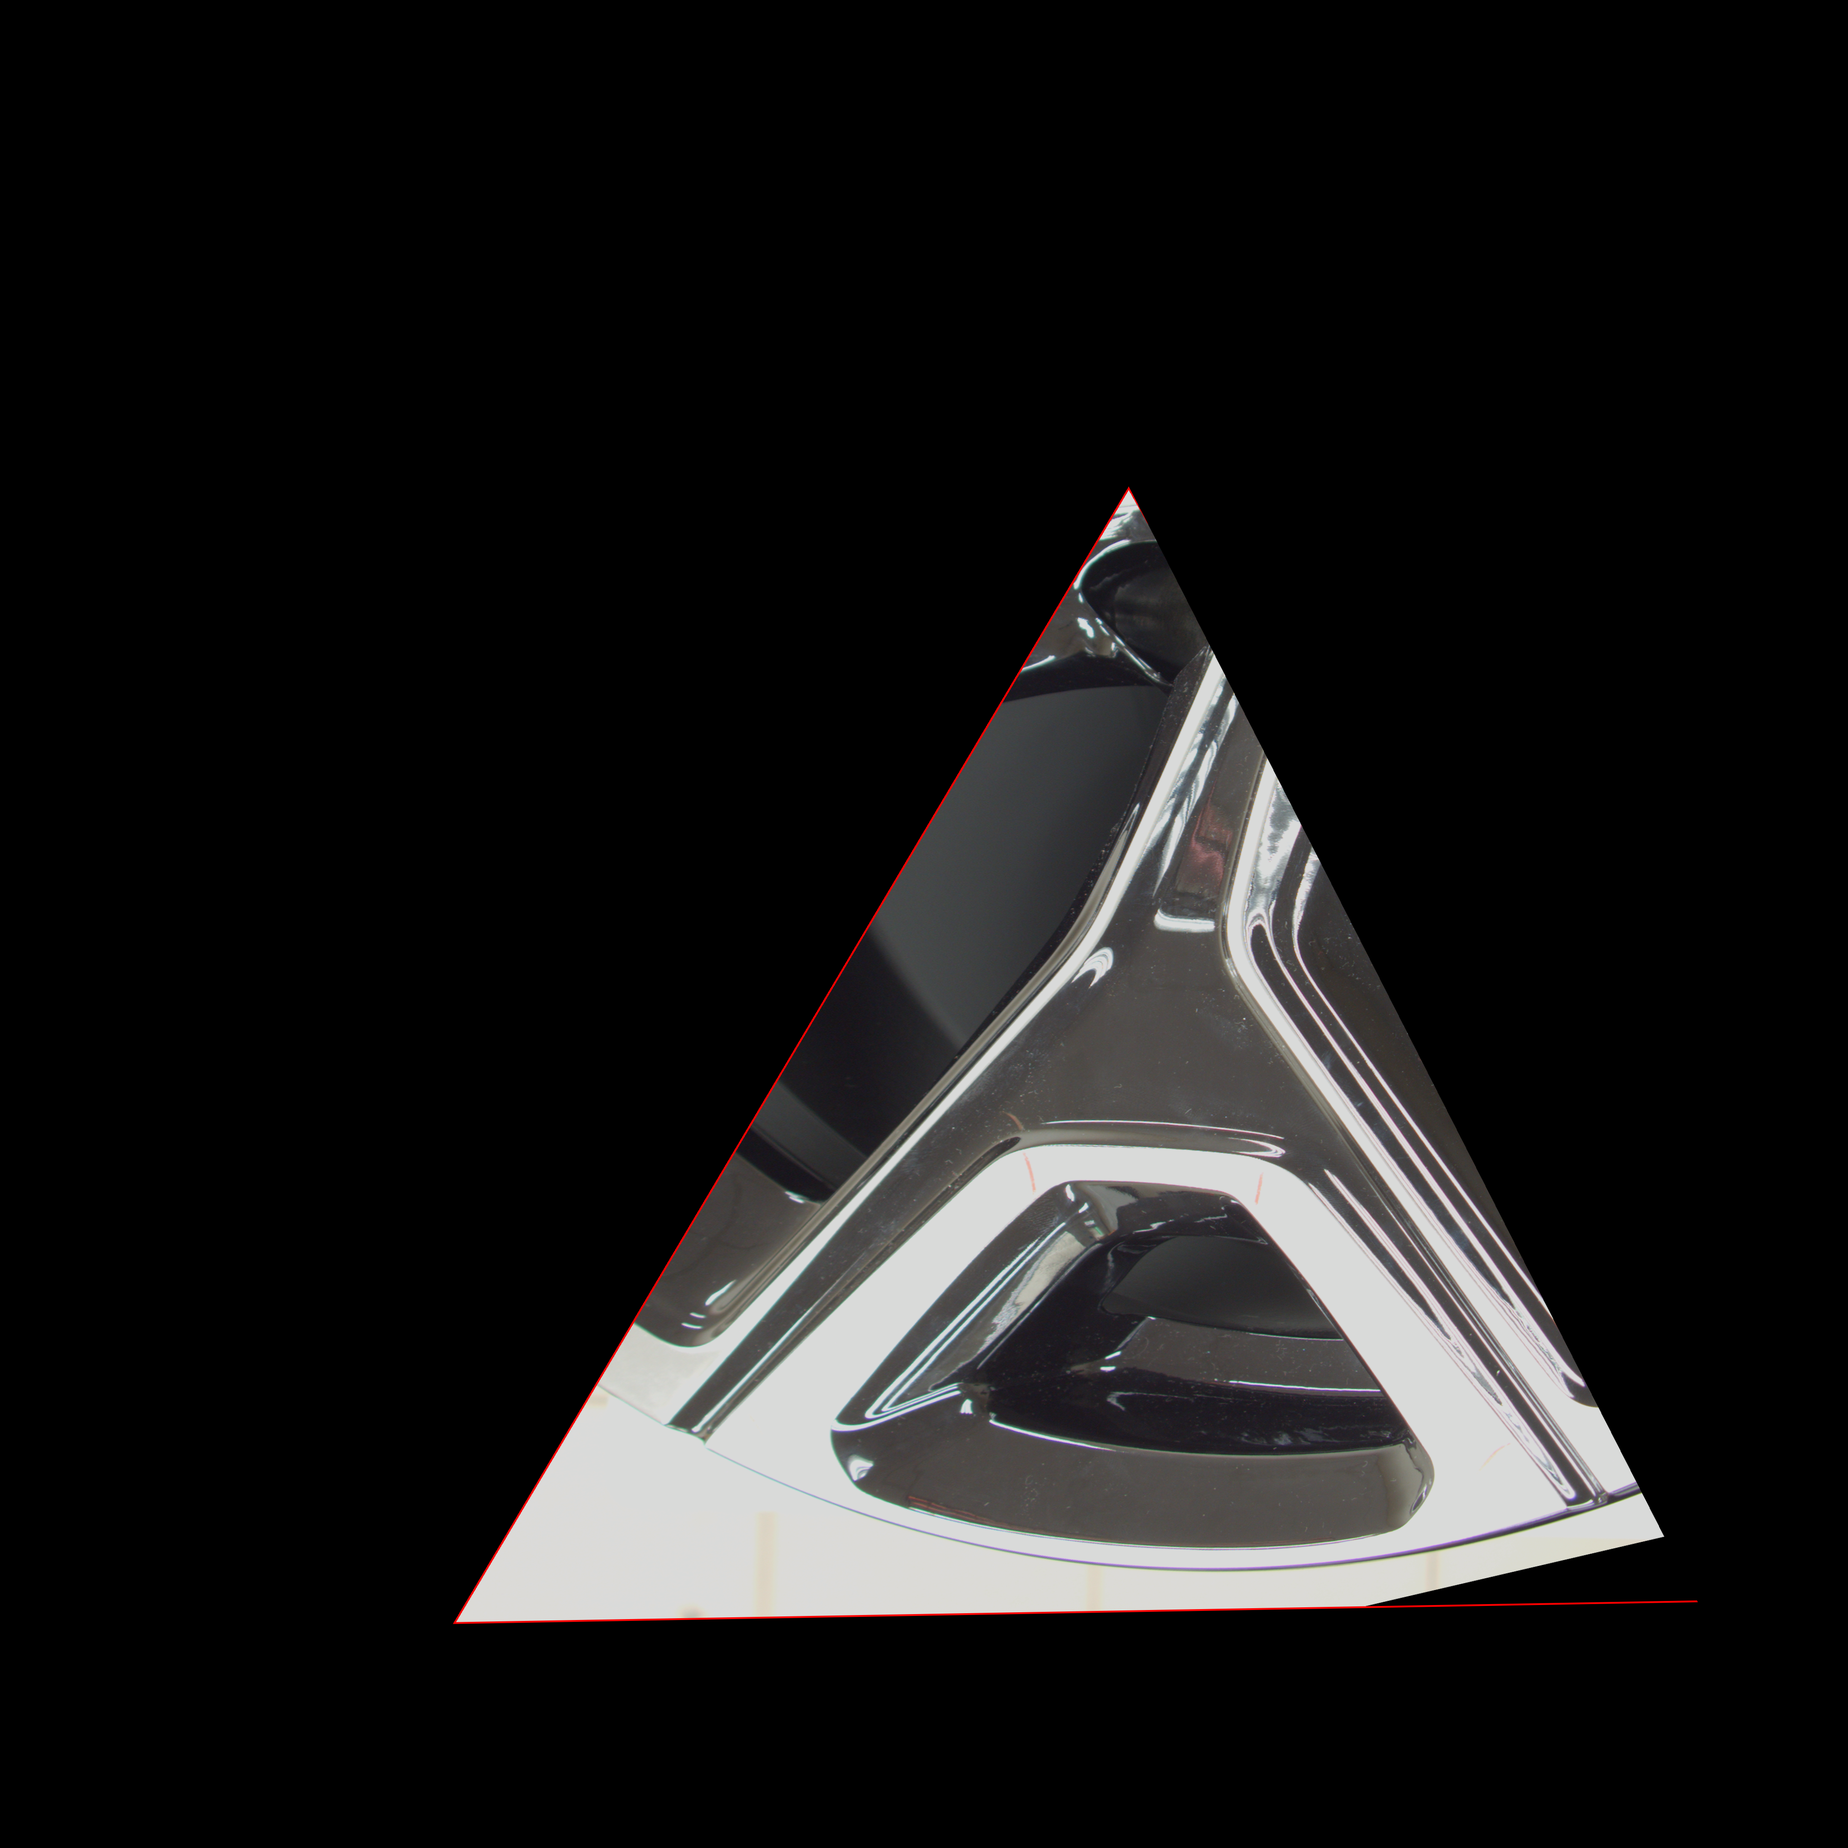
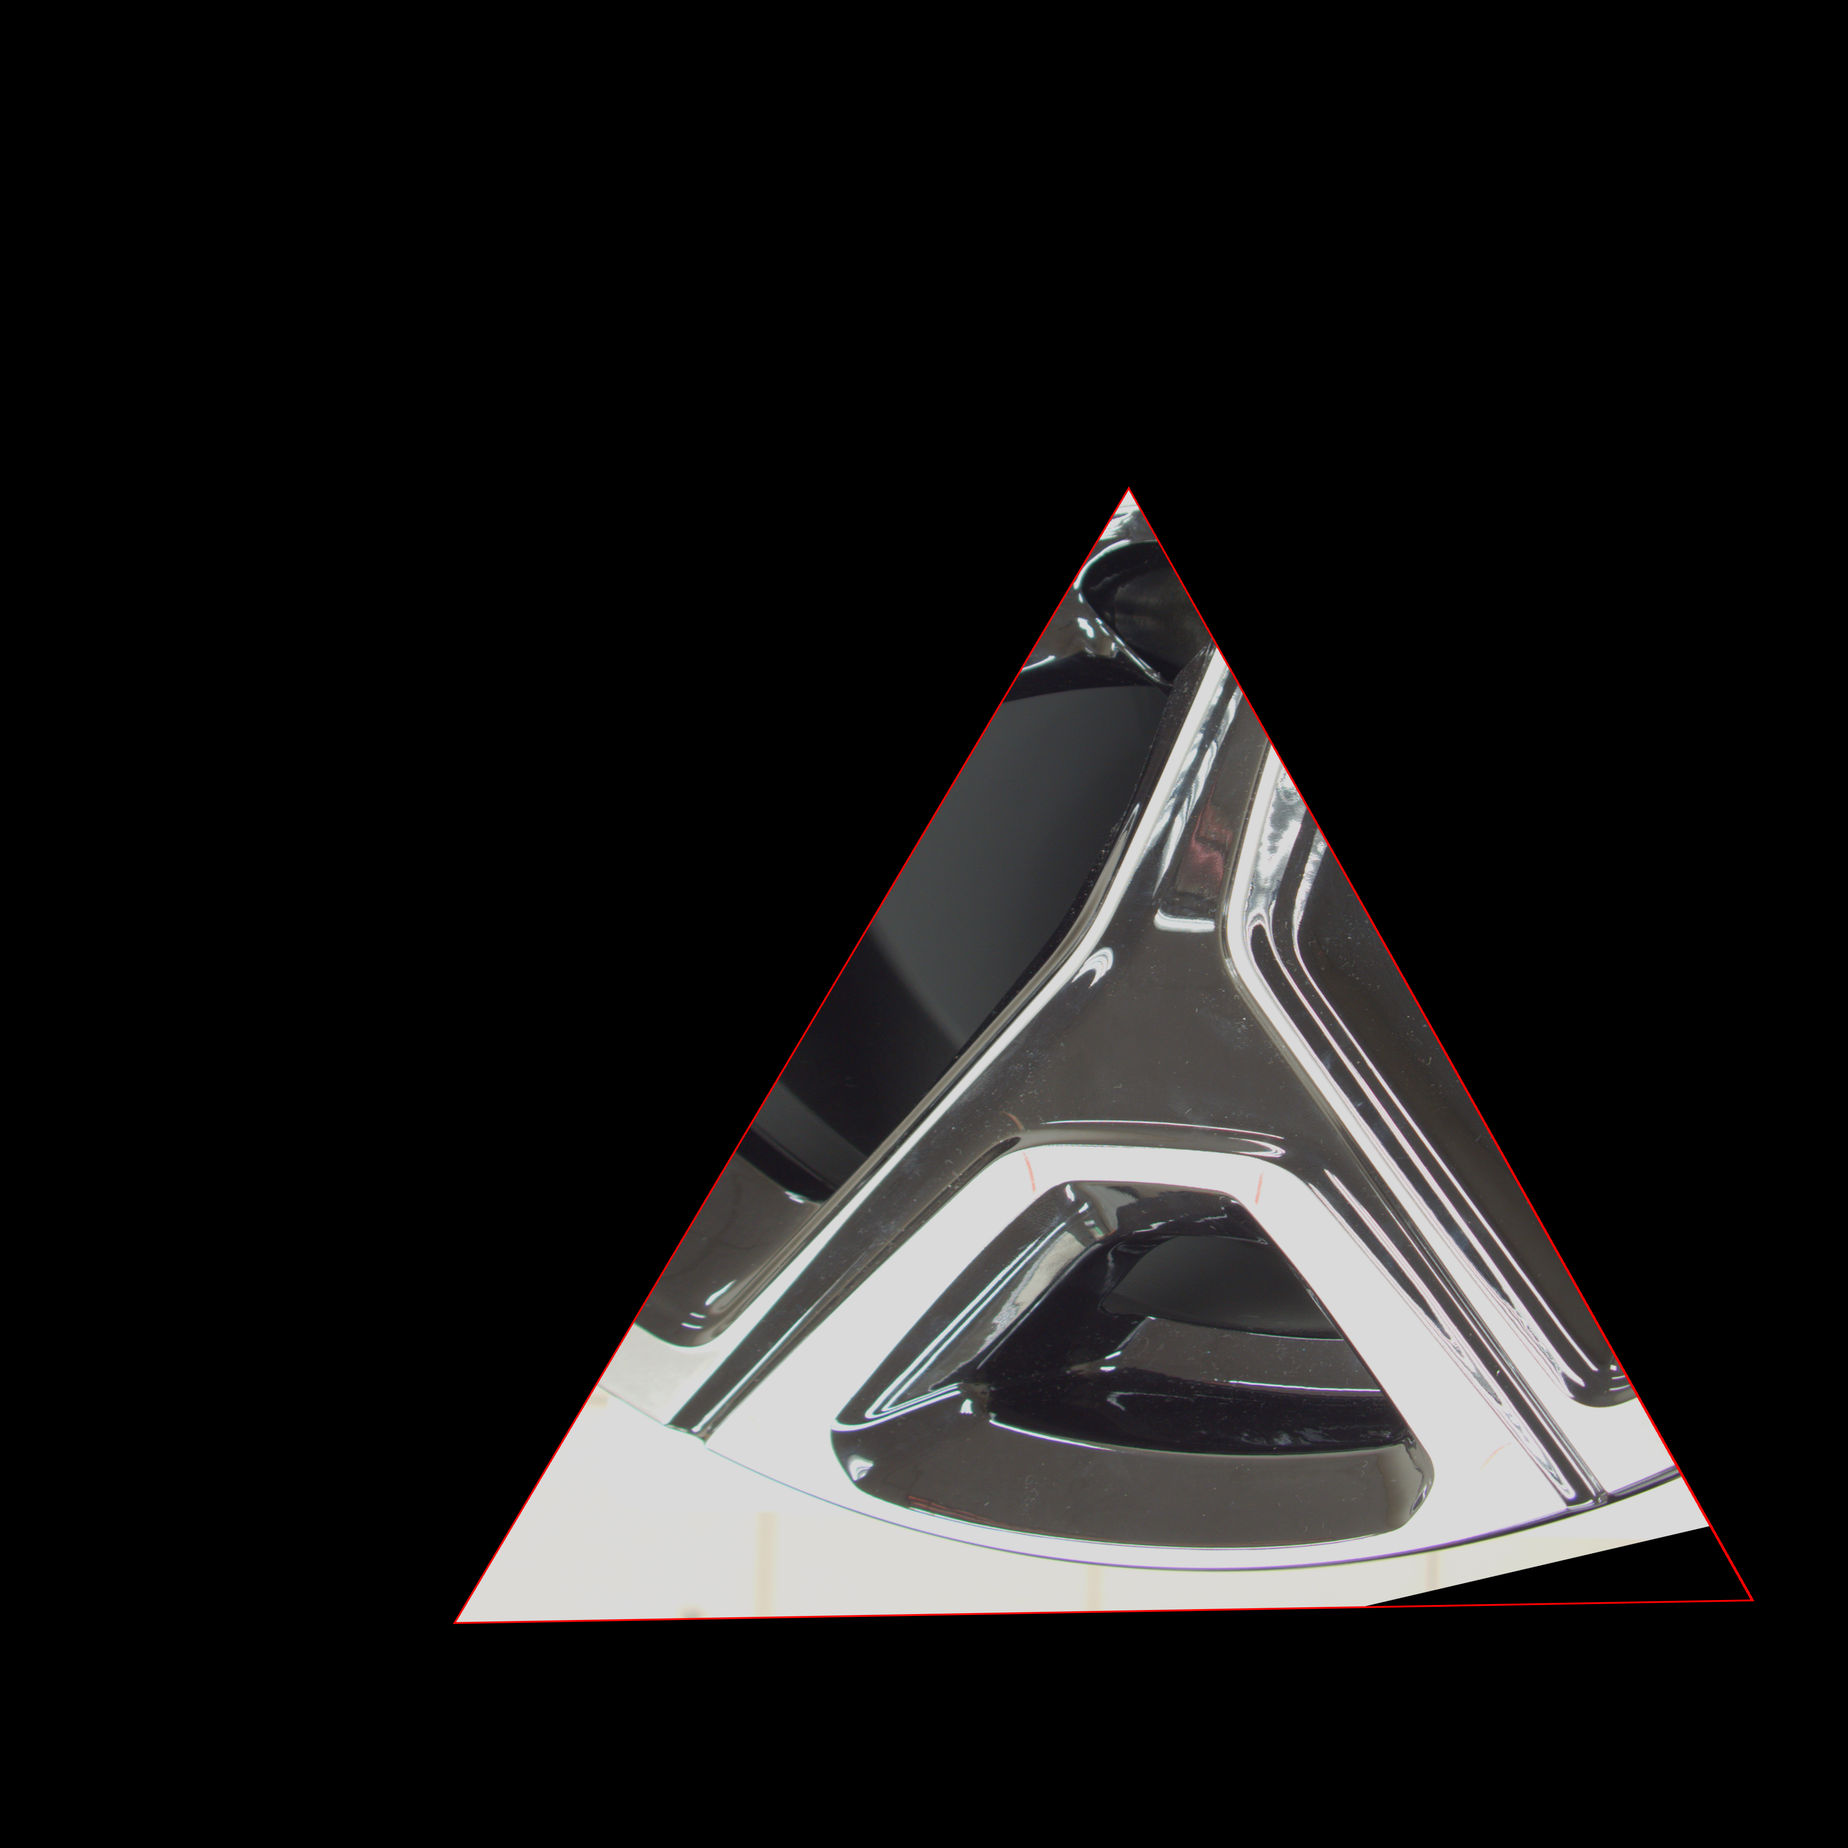
0110 add GUI connect function
Add GUI connect image function and increase the efficiency of connect the images.

diff --git a/picture_connect.py b/picture_connect.py
@@ -12,29 +12,35 @@ def show_xy(event,x,y,flags,userdata):
         print(event,x,y,flags)
   
 def blackToClear(img):   # 把黑色底調整成透明
-    h, w = img.shape[:2] # 取得圖片高度&寬度 
-    for x in range(w):   # 依序取出圖片中每個像素
-        for y in range(h):
-            if gray[y, x] < 5:  # 如果該像素的灰階度小於 5，調整成透明
-                img[y, x, 3] = 0
-    return img
+    # h, w = img.shape[:2] # 取得圖片高度&寬度 
+    # for x in range(w):   # 依序取出圖片中每個像素
+    #     for y in range(h):
+    #         if gray[y, x] < 5:  # 如果該像素的灰階度小於 5，調整成透明
+    #             img[y, x, 3] = 0
+    mask = np.all(img[:,:,:] == [0, 0, 0], axis=-1)
+    dst = cv2.cvtColor(img, cv2.COLOR_BGR2RGBA)
+    dst[mask, 3] = 0
+    return dst
 
 def resize_image(image, height=IMAGE_SIZE, width=IMAGE_SIZE):
-     top, bottom, left, right = (0, 0, 0, 0)      
-     h, w, _ = image.shape
-     # 在上方加上黑色邊
-     if h < IMAGE_SIZE:
-         dh = IMAGE_SIZE - h
-         top = dh
-         bottom = 0
-     if w < IMAGE_SIZE:
-         dw = IMAGE_SIZE - w
-         left = dw // 2
-         right = dw - left     
-     BLACK = [0, 0, 0] # RGB颜色
-     # 加圖片邊界，cv2.BORDER_CONSTANT指定顏色
-     constant = cv2.copyMakeBorder(image, top, bottom, left, right, cv2.BORDER_CONSTANT, value=BLACK)     
-     return cv2.resize(constant, (height, width)) # 調整圖片大小
+    top, bottom, left, right = (0, 0, 0, 0)      
+    h, w, _ = image.shape
+    # 在上方加上黑色邊
+    if h < IMAGE_SIZE:
+        dh = IMAGE_SIZE - h
+        top = dh
+        bottom = 0
+    if w < IMAGE_SIZE:
+        dw = IMAGE_SIZE - w
+        left = dw // 2
+        right = dw - left     
+    BLACK = [0, 0, 0] # RGB颜色
+       # 加圖片邊界，cv2.BORDER_CONSTANT指定顏色
+    constant = cv2.copyMakeBorder(image, top, bottom, left, right, cv2.BORDER_CONSTANT, value=BLACK)     
+    mask_1 = np.all(constant[:,:,:] == [0, 0, 0], axis=-1)
+    dst = cv2.cvtColor(constant, cv2.COLOR_BGR2RGBA)
+    dst[mask_1, 3] = 0
+    return cv2.resize(dst, (height, width)) # 調整圖片大小
 
 # 讀取圖片路徑
 path = './roi/'
@@ -51,21 +57,22 @@ pic_list = pic_list[:6] # 取前六
 for index, pic_list in enumerate(pic_list):
     start = time.time()        
     img = cv2.imread(path + pic_list + '.png')        
-    # 調整圖片大小並加上黑邊
-    img = resize_image(img)
-    
+   
     # cv2.namedWindow('image', cv2.WINDOW_KEEPRATIO)
     # cv2.imshow('image',img)
     # cv2.setMouseCallback('image', show_xy)  # 設定偵測事件的函式與視窗
     # cv2.waitKey(0)
     # cv2.destroyAllWindows()
-    
+                           
     # 轉換成 BGRA 色彩模式         
-    img = cv2.cvtColor(img, cv2.COLOR_BGR2RGBA) 
+    #img = cv2.cvtColor(img, cv2.COLOR_BGR2RGBA) 
     # 新增 gray 變數為轉換成灰階的圖片       
-    gray = cv2.cvtColor(img, cv2.COLOR_BGR2GRAY)
+    # gray = cv2.cvtColor(img, cv2.COLOR_BGR2GRAY)
     # 去除黑底
     img = blackToClear(img)  
+    
+    # 調整圖片大小並加上透明邊
+    img = resize_image(img)
     # 取得圖像的高度和寬度
     (h, w) = img.shape[:2]
     # 計算圖像的中心點

diff --git a/GUI/function/picture_connect.py b/GUI/function/picture_connect.py
@@ -29,45 +29,49 @@ class PictureConnect():
         self.pic_list = self.pic_list[:6] # 取前六                
         return self.pic_list
     
-    def blackToClear(img, gray):   # 把黑色底調整成透明
-        h, w = img.shape[:2] # 取得圖片高度&寬度 
-        for x in range(w):   # 依序取出圖片中每個像素
-            for y in range(h):
-                if gray[y, x] < 5:  # 如果該像素的灰階度小於 5，調整成透明
-                    img[y, x, 3] = 0
-        return img    
+    def blackToClear(self, img):   # 把黑色底調整成透明
+        mask = np.all(img[:,:,:] == [0, 0, 0], axis=-1)
+        dst = cv2.cvtColor(img, cv2.COLOR_BGR2RGBA)
+        dst[mask, 3] = 0
+        return dst
+
     
-    def resize_image(image, height, width):
-        IMAGE_SIZE=height
+    def resize_image(self, image):
+
         top, bottom, left, right = (0, 0, 0, 0)      
         h, w, _ = image.shape
         # 在上方加上黑色邊
-        if h < IMAGE_SIZE:
-            dh = IMAGE_SIZE - h
+        if h < self.IMAGE_SIZE:
+            dh = self.IMAGE_SIZE - h
             top = dh
             bottom = 0
-        if w < IMAGE_SIZE:
-            dw = IMAGE_SIZE - w
+        if w < self.IMAGE_SIZE:
+            dw = self.IMAGE_SIZE - w
             left = dw // 2
             right = dw - left     
         BLACK = [0, 0, 0] # RGB颜色
         # 加圖片邊界，cv2.BORDER_CONSTANT指定顏色
         constant = cv2.copyMakeBorder(image, top, bottom, left, right, cv2.BORDER_CONSTANT, value=BLACK)     
-        return cv2.resize(constant, (height, width)) # 調整圖片大小
+        mask_1 = np.all(constant[:,:,:] == [0, 0, 0], axis=-1)
+        dst = cv2.cvtColor(constant, cv2.COLOR_BGR2RGBA)
+        dst[mask_1,3] = 0
+        return cv2.resize(dst, (self.IMAGE_SIZE, self.IMAGE_SIZE)) # 調整圖片大小
     
     def connect_picture(self, pic_list):   
-        for index, pic_list in enumerate(pic_list):
-            start = time.time()        
-            img = cv2.imread(self.path + self.pic_list + '.png')        
-            # 調整圖片大小並加上黑邊
-            img = self.resize_image(img)
+        for index, pic in enumerate(pic_list):
+            start = time.time()
+            img = cv2.imread(str(self.path + pic) + '.png')        
+            
                         
             # 轉換成 BGRA 色彩模式         
-            img = cv2.cvtColor(img, cv2.COLOR_BGR2RGBA) 
+            #img = cv2.cvtColor(img, cv2.COLOR_BGR2RGBA) 
             # 新增 gray 變數為轉換成灰階的圖片       
-            gray = cv2.cvtColor(img, cv2.COLOR_BGR2GRAY)
+            #gray = cv2.cvtColor(img, cv2.COLOR_BGR2GRAY)
             # 去除黑底
-            img = self.blackToClear(img, gray)  
+            img = self.blackToClear(img)  
+            
+            # 調整圖片大小並加上透明邊
+            img = self.resize_image(img)
             # 取得圖像的高度和寬度
             (h, w) = img.shape[:2]
             # 計算圖像的中心點

diff --git a/GUI/UI.py b/GUI/UI.py
@@ -2,7 +2,7 @@
 
 # Form implementation generated from reading ui file 'tiredetect.ui'
 #
-# Created by: PyQt5 UI code generator 5.15.7
+# Created by: PyQt5 UI code generator 5.15.10
 #
 # WARNING: Any manual changes made to this file will be lost when pyuic5 is
 # run again.  Do not edit this file unless you know what you are doing.
@@ -14,15 +14,15 @@ from PyQt5 import QtCore, QtGui, QtWidgets
 class Ui_MainWindow(object):
     def setupUi(self, MainWindow):
         MainWindow.setObjectName("MainWindow")
-        MainWindow.resize(1097, 841)
+        MainWindow.resize(1097, 858)
         MainWindow.setAutoFillBackground(True)
         self.centralwidget = QtWidgets.QWidget(MainWindow)
         self.centralwidget.setObjectName("centralwidget")
         self.pushButton_collect_result = QtWidgets.QPushButton(self.centralwidget)
-        self.pushButton_collect_result.setGeometry(QtCore.QRect(140, 740, 101, 23))
+        self.pushButton_collect_result.setGeometry(QtCore.QRect(140, 790, 101, 23))
         self.pushButton_collect_result.setObjectName("pushButton_collect_result")
         self.pushButton_export_result = QtWidgets.QPushButton(self.centralwidget)
-        self.pushButton_export_result.setGeometry(QtCore.QRect(350, 740, 101, 23))
+        self.pushButton_export_result.setGeometry(QtCore.QRect(350, 790, 101, 23))
         self.pushButton_export_result.setObjectName("pushButton_export_result")
         self.groupBox_tire_side = QtWidgets.QGroupBox(self.centralwidget)
         self.groupBox_tire_side.setGeometry(QtCore.QRect(50, 20, 971, 281))
@@ -379,10 +379,10 @@ class Ui_MainWindow(object):
         self.verticalLayout_4.addWidget(self.label_location_touch_mark)
         self.horizontalLayout_4.addLayout(self.verticalLayout_4)
         self.groupBox_tire_all = QtWidgets.QGroupBox(self.centralwidget)
-        self.groupBox_tire_all.setGeometry(QtCore.QRect(50, 310, 531, 421))
+        self.groupBox_tire_all.setGeometry(QtCore.QRect(50, 310, 531, 471))
         self.groupBox_tire_all.setObjectName("groupBox_tire_all")
         self.label_tire_all = QtWidgets.QLabel(self.groupBox_tire_all)
-        self.label_tire_all.setGeometry(QtCore.QRect(60, 10, 419, 399))
+        self.label_tire_all.setGeometry(QtCore.QRect(60, 10, 450, 450))
         self.label_tire_all.setAlignment(QtCore.Qt.AlignCenter)
         self.label_tire_all.setObjectName("label_tire_all")
         MainWindow.setCentralWidget(self.centralwidget)

diff --git a/GUI/controller.py b/GUI/controller.py
@@ -2,8 +2,10 @@ from PyQt5 import QtWidgets, QtGui, QtCore
 from PyQt5.QtGui import QImage, QPixmap
 
 from UI import Ui_MainWindow
+from function.helperFunction import read_image
 from function.perspective_transformation import PerspectiveTransformation
 from function.get_roi import GetROI
+from function.picture_connect import PictureConnect
 
 import cv2
 
@@ -26,6 +28,7 @@ class MainWindow(QtWidgets.QMainWindow):
     def setup_control(self): # 啟動時預載入函式
         self.ReadPartImage = ReadPartImage()
         self.ReadPartImage.ReadPartImageFinished.connect(self.display_left_img) # 連結訊號到顯示左側圖片
+        self.ReadPartImage.ReadPartImageFinished.connect(self.display_all_img) # 連結訊號到顯示左側圖片
         self.ReadPartImage.start()
         
     def display_left_img(self):
@@ -41,6 +44,16 @@ class MainWindow(QtWidgets.QMainWindow):
             self.qimg = QImage(self.img, width, height, bytesPerline, QImage.Format_RGB888).rgbSwapped()
             exec(f'self.ui.{label_left[index]}.setPixmap(QPixmap.fromImage(self.qimg))')
 
+    def display_all_img(self):
+        img_path = 'connect_output.png'
+        self.img = cv2.imread(img_path)
+        self.img = cv2.resize(self.img, (115, 115))
+        height, width, channel = self.img.shape
+        bytesPerline = 3 * width
+        self.qimg = QImage(self.img, width, height, bytesPerline, QImage.Format_RGB888).rgbSwapped()
+        self.ui.label_tire_all.setPixmap(QPixmap.fromImage(self.qimg))
+
+
 class ReadPartImage(QtCore.QThread):  # 繼承 QtCore.QThread 來建立 
     ReadPartImageFinished = QtCore.pyqtSignal()  # 建立傳遞信號，設定傳遞型態為任意格式
     perspective_pic_list=[]
@@ -50,13 +63,17 @@ class ReadPartImage(QtCore.QThread):  # 繼承 QtCore.QThread 來建立
         self.perspectiveTransformation = PerspectiveTransformation()
         self.getROI = GetROI()
         self.pic_list = self.perspectiveTransformation.read_image()
+        self.pictureConnect = PictureConnect()
+        
 
 
     def run(self):
         # 進行圖片透視校正
         self.perspectiveTransformation.transformation_image(self.pic_list)
-        # TODO ROI
+        #ROI
         self.getROI.get_roi(self.pic_list)
+        # 圖片連結
+        self.pictureConnect.connect_picture(self.pic_list)
         # 完成後發送完成訊號
         self.ReadPartImageFinished.emit()
         

diff --git a/get_roi.py b/get_roi.py
@@ -19,7 +19,7 @@ for root,dirs,files in os.walk(path):
 theta = np.deg2rad(-60)
 rot = np.array([[cos(theta), -sin(theta)], [sin(theta), cos(theta)]])
         
-for pic in pic_list:
+for pic in pic_list[:2]:
     img = cv2.imread(path +  pic + '.png',)     
     
     # x1 = 391
@@ -51,12 +51,12 @@ for pic in pic_list:
     cv2.line(img, (x1, y1), (x1,x3[1]), (0, 0, 255), 5)
                                
     # 加ROI遮罩
-    mask = np.zeros((4000,4000),dtype=np.uint8)
+    mask = np.zeros((4000,4000), dtype=np.uint8)
     x_data = np.array([x1,x2,x1])
-    y_data = np.array([y1,y2,x3[1]-170])
+    y_data = np.array([y1,y2,x3[1]-45])
     pts=np.vstack((x_data,y_data)).astype(np.int32).T
     cv2.fillPoly(mask,[pts],(255),8,0)
-    img=cv2.bitwise_and(img,img,mask=mask)
+    img=cv2.bitwise_and(img, img, mask=mask)
 
     # 取得圖像的高度和寬度
     (h, w) = img.shape[:2]
@@ -71,8 +71,10 @@ for pic in pic_list:
     # 旋轉圖像
     output = cv2.warpAffine(img, M, (nw, nh))
 
-    # cv2.namedWindow('image', cv2.WINDOW_KEEPRATIO)
-    # cv2.imshow('image',output)
+
+    cv2.namedWindow('image', cv2.WINDOW_KEEPRATIO)
+    cv2.setMouseCallback('image', show_xy)  # 設定偵測事件的函式與視窗
+    cv2.imshow('image',output)
 
     cv2.imwrite('roi/' + pic + '_roi.png', output)
     

diff --git a/GUI/function/get_roi.py b/GUI/function/get_roi.py
@@ -52,7 +52,7 @@ class GetROI():
             # 加ROI遮罩
             mask = np.zeros((4000,4000),dtype=np.uint8)
             x_data = np.array([x1,x2,x1])
-            y_data = np.array([y1,y2,x3[1]-170])
+            y_data = np.array([y1,y2,x3[1]-45])
             pts=np.vstack((x_data,y_data)).astype(np.int32).T
             cv2.fillPoly(mask,[pts],(255),8,0)
             self.img=cv2.bitwise_and(self.img,self.img,mask=mask)

diff --git a/GUI/function/helperFunction.py b/GUI/function/helperFunction.py
@@ -1,0 +1,17 @@
+# -*- coding: utf-8 -*-
+"""
+Created on Wed Jan 10 17:21:31 2024
+
+@author: GTX-960
+"""
+import os
+
+def read_image(path):
+    pic_list=[]
+    for root,dirs,files in os.walk(path):
+    	for file in files:
+    		file=file.rstrip(".png")
+    		pic_list.append(file)
+    print("Finish reading " + str(len(pic_list)) + " pictures!")
+    pic_list = pic_list[:6] # 取前六                
+    return pic_list
